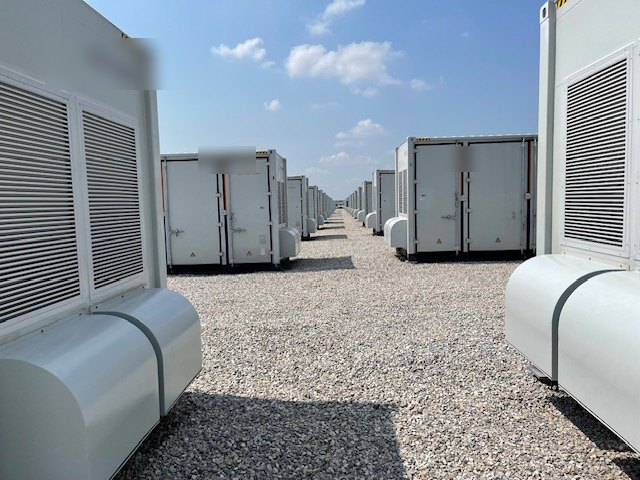
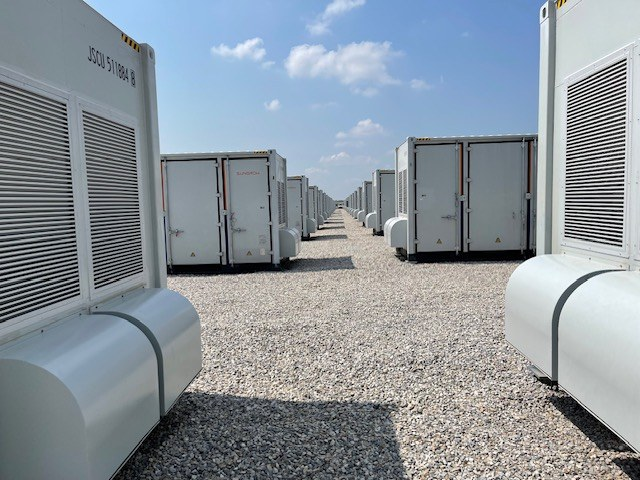
Add files via upload

diff --git a/app/globals.css b/app/globals.css
@@ -351,9 +351,9 @@ img { max-width: 100%; }
   -webkit-backdrop-filter: saturate(140%) blur(10px);
   border-bottom: 1px solid var(--hairline-dark);
 }
-.nav__inner { display: flex; align-items: center; justify-content: space-between; gap: 1rem; min-height: 66px; }
+.nav__inner { display: flex; align-items: center; justify-content: space-between; gap: 1rem; min-height: 72px; }
 .nav__brand { display: inline-flex; align-items: center; }
-.nav__wordmark { width: 152px; height: auto; display: block; }
+.nav__wordmark { width: 196px; height: auto; display: block; }
 .nav__links { display: flex; flex-wrap: wrap; justify-content: flex-end; gap: clamp(1.1rem, 3vw, 2.4rem); }
 .nav__link {
   font-family: var(--font-sans);
@@ -372,7 +372,7 @@ img { max-width: 100%; }
 .footer { background: var(--charcoal-deep); border-top: 1px solid var(--hairline-dark); padding-block: clamp(3rem, 7vh, 4.5rem); }
 .footer__inner { display: flex; flex-wrap: wrap; align-items: flex-start; justify-content: space-between; gap: 2rem 2.5rem; }
 .footer__brand { max-width: 30ch; }
-.footer__wordmark { width: 160px; height: auto; display: block; opacity: 0.95; }
+.footer__wordmark { width: 200px; height: auto; display: block; opacity: 0.95; }
 .footer__tagline { font-family: var(--font-sans); font-size: 0.9rem; color: var(--on-dark-muted); margin: 1.1rem 0 0; line-height: 1.5; }
 .footer__right { display: flex; flex-direction: column; align-items: flex-end; gap: 0.7rem; text-align: right; }
 .footer__links { display: flex; flex-wrap: wrap; gap: 1.5rem; justify-content: flex-end; }
@@ -427,7 +427,7 @@ img { max-width: 100%; }
 }
 @media (max-width: 560px) {
   .nav__inner { flex-wrap: wrap; min-height: 0; padding-block: 0.6rem; row-gap: 0.55rem; }
-  .nav__wordmark { width: 124px; }
+  .nav__wordmark { width: 150px; }
   .nav__links { width: 100%; justify-content: flex-start; gap: 1.4rem; }
   .nav__link { font-size: 0.74rem; letter-spacing: 0.09em; }
   .footer__inner { flex-direction: column; }